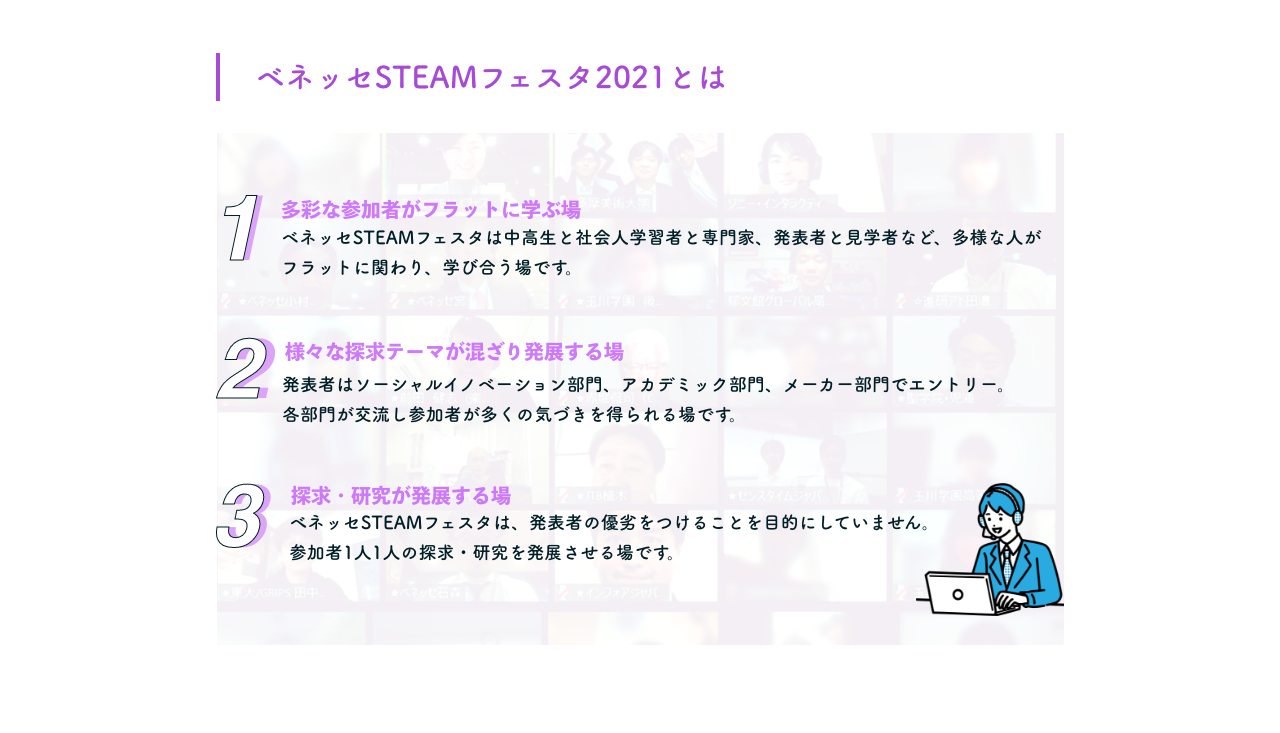
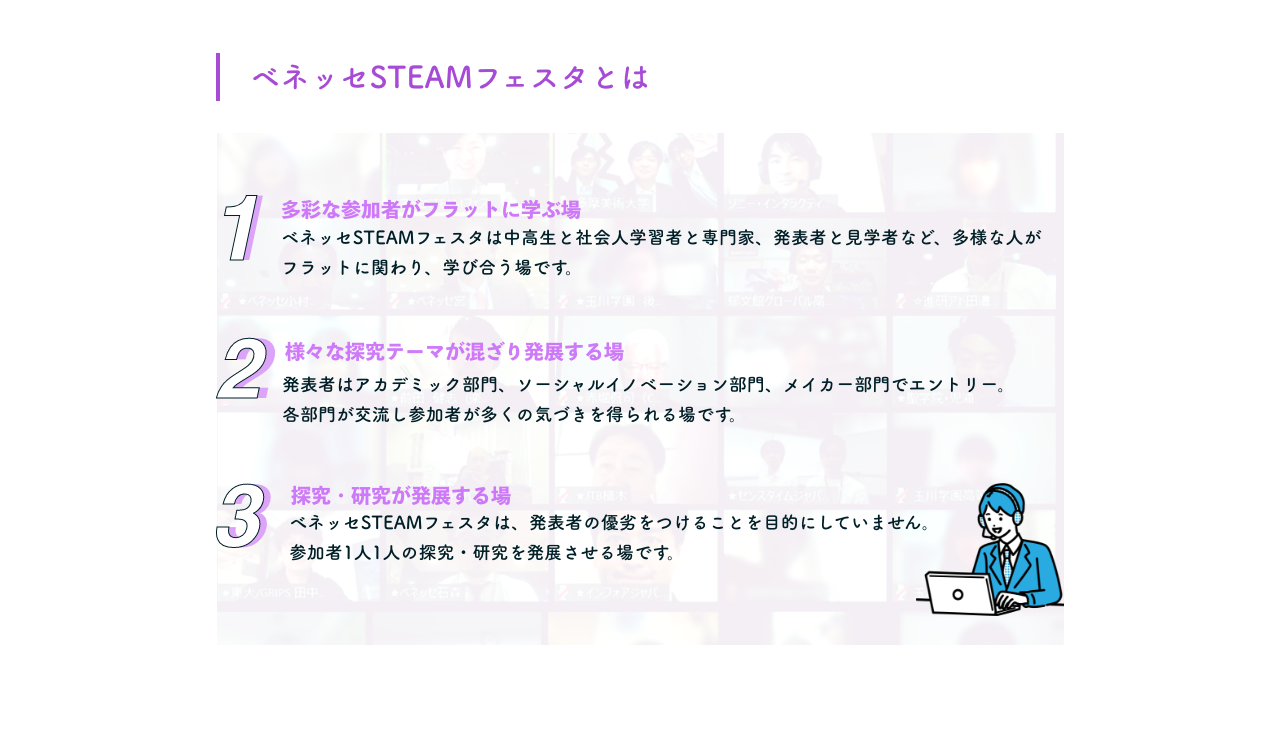
1280 全体的に調整　画像差し替え　テキスト化

diff --git a/src/1280px/tab02.html b/src/1280px/tab02.html
@@ -39,10 +39,30 @@
     <!-- Scrolle Area -->
     <div class="scrollArea festa">
 
-        <!-- <h1>| ベネッセSTEAMフェスタ2021とは</h1> -->
-
         <img src="images/02_festa/pc_festa_discription.png">
-        <img src="images/02_festa/pc_festa_history.png">
+
+        <div class="back">
+            <img src="images/02_festa/pc_festa_history_background.png">
+            <div class="festahistory">
+                <img src="images/02_festa/pc_festa_headline_1.png">
+                <p>
+                    ベネッセコーポレーションは、「ロボットを作ろう、動かそう」合同発表会（2009年～）、
+                    新しい学びのワークショップや中高生の研究発表を中心とした「新しい学びフェスタ」（2011年～）、
+                    作ることによる学びをわかちあう「School Maker Faire」（2019年～）という教育イベントを開催するなど、
+                    10年以上にわたって<span class="festamarker">多くの学校と共にSTEAMの実践に取り組んできました。</span><br><br>
+                    そして、2020年からは新たに企業や大学のサポーターの協力もいただきながら「ベネッセSTEAMフェスタ」として、
+                    <span class="festamarker">コロナ禍の中でオンライン</span>を中心とした新しいスタイルのフェスタを開催しています。<br><br>
+                    STEAMとは、Science, Technology, Engineering, Arts, Mathematicsの学問領域を横断し、
+                    実社会の問題解決に取り組みながら学ぶ、新しい学びのあり方です。
+                    文部科学省は2020年の新しい学習指導要領でSTEAMの考え方を取り入れた<span class="festamarker">探究的な学びを重視しており、</span>
+                    経済産業省は「未来の教室」事業において、
+                    <span class="festamarker">一人ひとりのワクワクを中心に知ると創るが循環する「学びのSTEAM化」</span>を提唱しています。
+                    この数年でSTEAMに取り組む学校が全国的に広がりつつあります。<br><br>
+                    ベネッセSTEAMフェスタでは、皆さんと一緒にSTEAMの学びを実現するとともに、全国の学校で行われているSTEAMの学びを応援していきます。
+                </p>
+            </div>
+        </div>
+
         <div class="back">
             <img src="images/02_festa/pc_festa_schedule.png">
             <div class="scheduletext">
@@ -53,7 +73,7 @@
         <div class="festadivision">
 
             <div class="festatitle">
-                <img src="images/02_festa/pc_festa_title.png">
+                <img src="images/02_festa/pc_festa_headline_2.png">
             </div>
 
             <div class="festatable">
@@ -68,7 +88,7 @@
                     </div>
 
                     <div class="festaitem">
-                        <h2>ソーシャルイノベーター部門</h2>
+                        <h2>ソーシャルイノベーション部門</h2>
                         <img src="images/02_festa/pc_festa_icon_2.png">
                         <p>身近な気づきや問題意識から<br>行動し自分や周囲にもたらした<br>変化を発表する部門</p>
                         <button type="submit" onclick="location.href=''">

diff --git a/src/1280px/tab01.html b/src/1280px/tab01.html
@@ -55,12 +55,12 @@
                         <img src="images/01_top/pc_top_button_academic.png"></button>
                 </div>
 
-                <h2>ソーシャルイノベーター部門</h2>
+                <h2>ソーシャルイノベーション部門</h2>
                 <img src="images/01_top/pc_wordcloud_social_inovation.png">
                 <div class="topbutton">
                     <button type="submit"
                         onclick="location.href='https://drive.google.com/drive/folders/1ghk7VDb2asRhOWJU9il3r6KiFtkj4rTW?usp=sharing'">
-                        <img src="images/01_top/pc_top_button_social_inoverter.png"></button>
+                        <img src="images/01_top/pc_top_button_social_inovertion.png"></button>
                 </div>
 
                 <h2>メイカー部門</h2>
@@ -70,7 +70,6 @@
                         onclick="location.href='https://drive.google.com/drive/folders/14IfioNXKvPzcVUq34tJh2fSJFxGnFQ2M?usp=sharing'">
                         <img src="images/01_top/pc_top_button_maker.png"></button>
                 </div>
-
             </div>
         </div>
     </div>

diff --git a/src/1280px/tab03.html b/src/1280px/tab03.html
@@ -43,7 +43,7 @@
             <div class="supporter">
 
                 <div class="greetingtitle">
-                    <img src="images/03_supporter/pc_supporter_title_1.png">
+                    <img src="images/03_supporter/pc_supporter_headline_1.png">
                 </div>
 
                 <div class="greetingtable">
@@ -68,7 +68,7 @@
                 </div>
 
                 <div class="supportertitle">
-                    <img src="images/03_supporter/pc_supporter_title_1.png">
+                    <img src="images/03_supporter/pc_supporter_headline_2.png">
                 </div>
 
                 <div class="supportertable">

diff --git a/src/1280px/css/main.css b/src/1280px/css/main.css
@@ -194,6 +194,26 @@ header{
 }
 
 /* tab02 */
+.festahistory img{
+	position: absolute;
+	top: 0;
+	left: 216px;
+}
+
+.festahistory p{
+	position: absolute;
+	font-size: 18px;
+	text-align: left;
+	word-wrap: normal;
+	top: 150px;
+	left: 0;
+	margin: 0 216px 0 216px;
+}
+
+.festamarker{
+	background: linear-gradient(transparent 50%, #E7C2FA 0%);
+}
+
 .festatitle{
 	text-align: left;
 }
